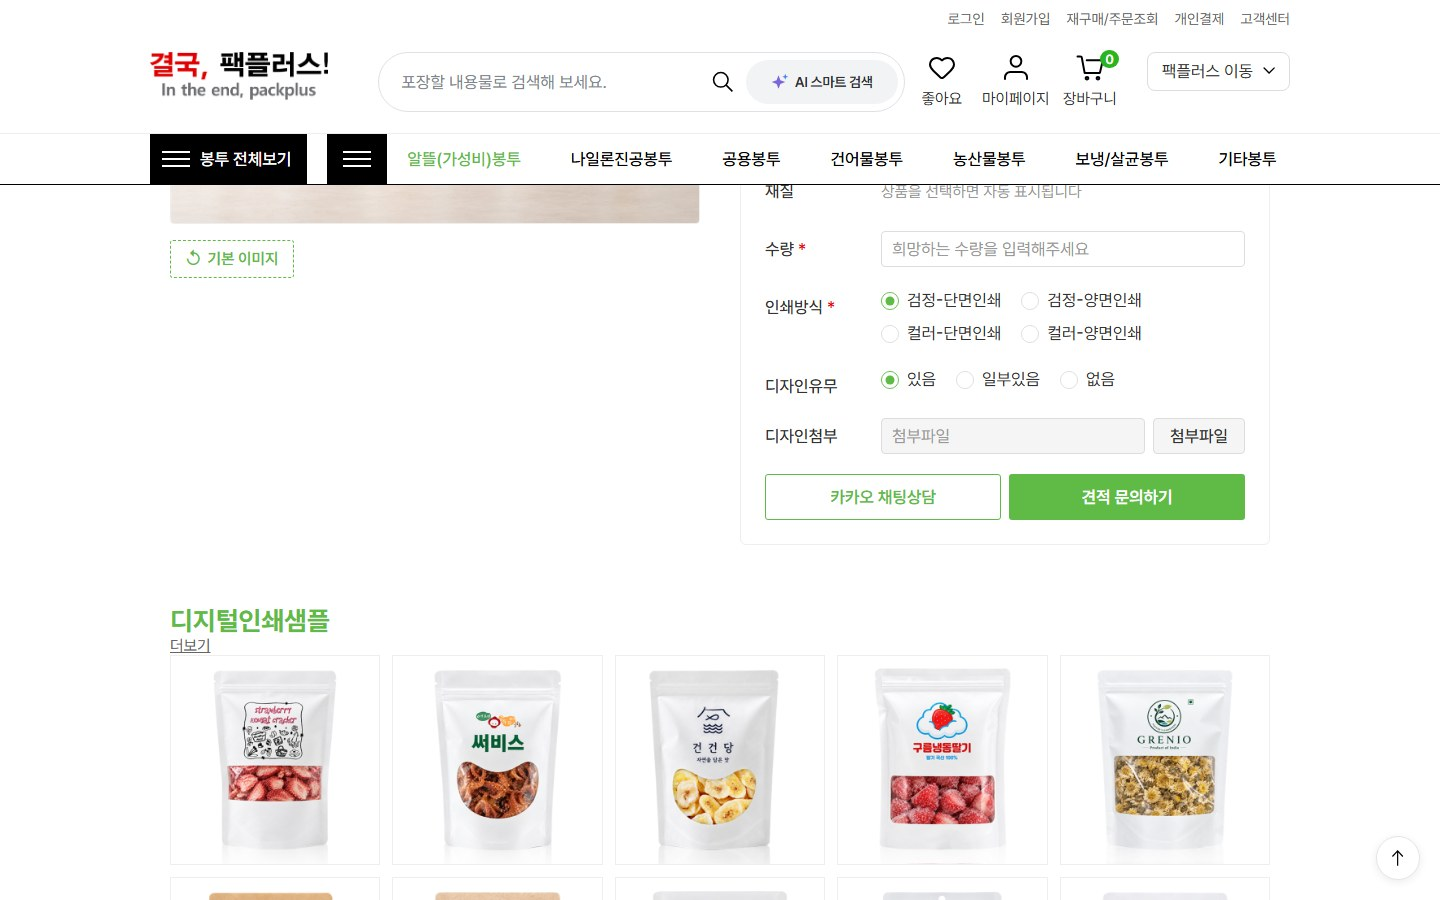
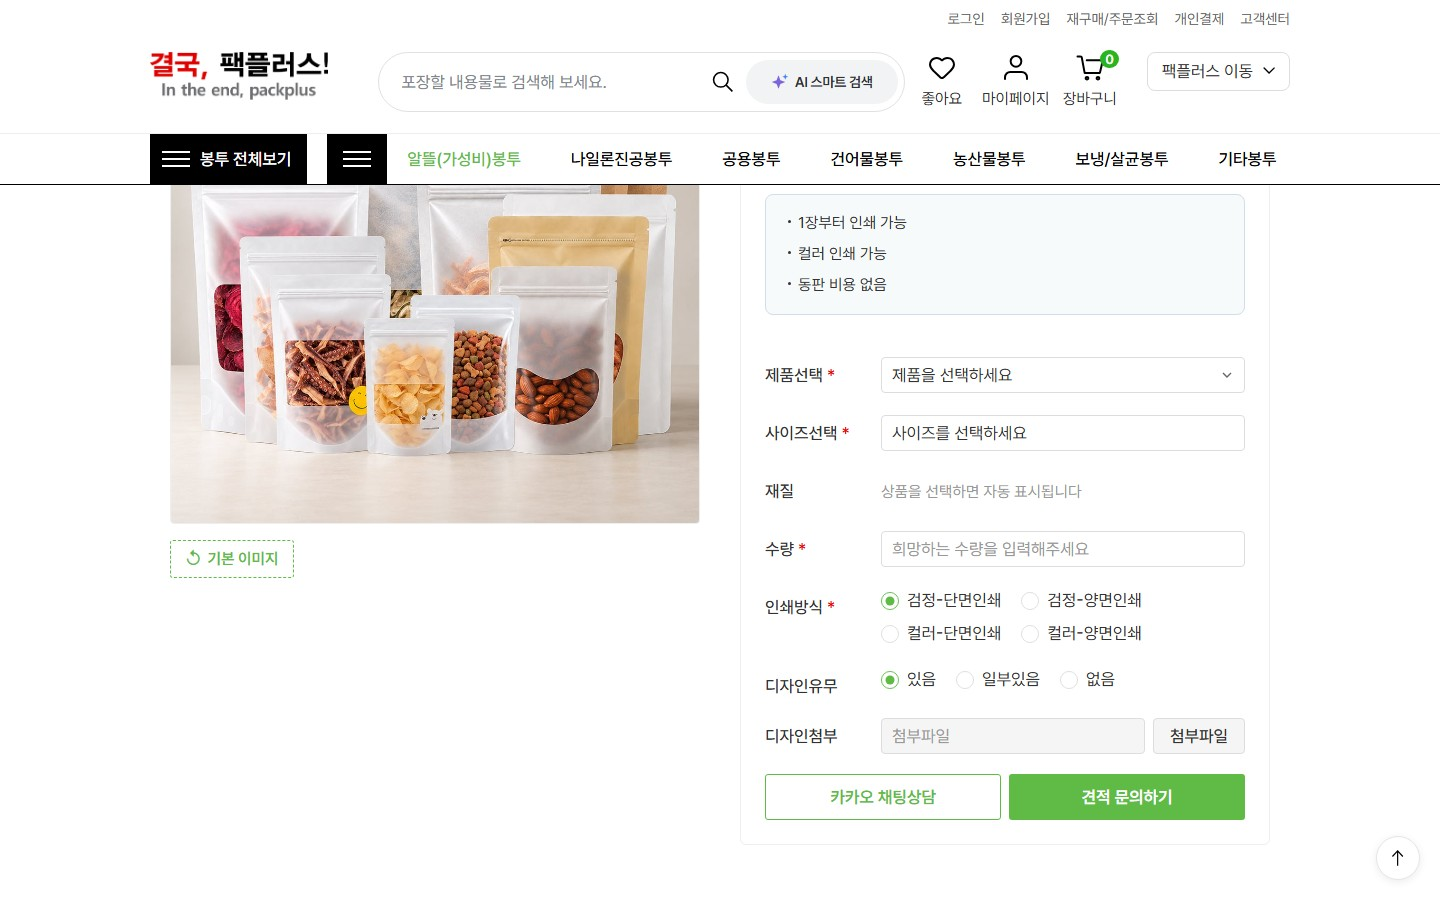
fix: 팩플러스 주문제작 상세·견적게시판 이미지 교체, gallery 캡션 수정
- gallery-main: 디지털인쇄 주문제작 형태 선택 UI
- gallery-scroll1: 디자인 파일첨부(S3) 영역
- gallery-s6: 주문제작 문의 게시판 (실 데이터 포함)
- gallery-s4: 인디고인쇄 주문제작 옵션 폼
- gallery-s5: 동판인쇄 주문제작 옵션 폼 (기존 빈 장바구니 대체)

diff --git a/project/detail/packplus.html b/project/detail/packplus.html
@@ -246,12 +246,12 @@ title: "PackPlus — 김유진 포트폴리오"
                 <span class="pj-gallery__caption">상품 목록</span>
             </div>
             <div class="pj-gallery__item js-fade">
-                <img loading="lazy" decoding="async" src="{{ '/assets/img/detail/packplus-gallery-s4.jpg' | relative_url }}" alt="상품 상세">
-                <span class="pj-gallery__caption">상품 상세 페이지</span>
+                <img loading="lazy" decoding="async" src="{{ '/assets/img/detail/packplus-gallery-s4.jpg' | relative_url }}" alt="인디고인쇄 주문제작">
+                <span class="pj-gallery__caption">인디고인쇄 주문제작</span>
             </div>
             <div class="pj-gallery__item js-fade">
-                <img loading="lazy" decoding="async" src="{{ '/assets/img/detail/packplus-gallery-s5.jpg' | relative_url }}" alt="장바구니">
-                <span class="pj-gallery__caption">장바구니</span>
+                <img loading="lazy" decoding="async" src="{{ '/assets/img/detail/packplus-gallery-s5.jpg' | relative_url }}" alt="동판인쇄 주문제작">
+                <span class="pj-gallery__caption">동판인쇄 주문제작</span>
             </div>
             <div class="pj-gallery__item js-fade">
                 <img loading="lazy" decoding="async" src="{{ '/assets/img/detail/packplus-gallery-s3.jpg' | relative_url }}" alt="검색">
